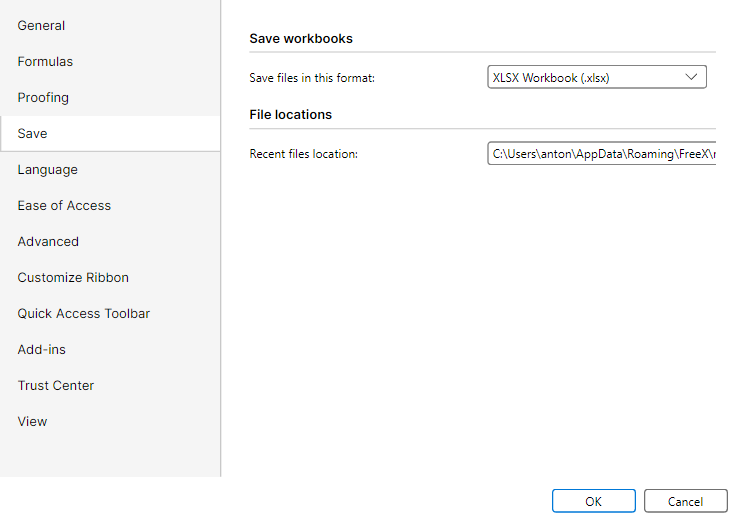
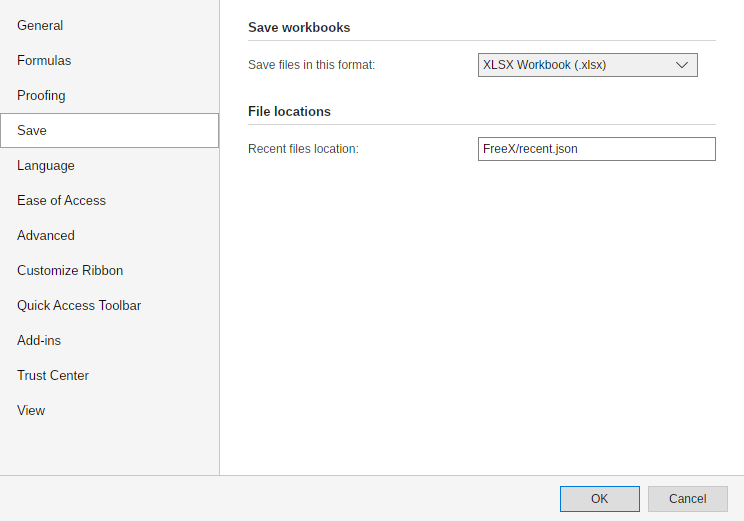
FreeX: align Avalonia Options Save parity

diff --git a/src/FreeX.App.Host/ParityCapture.cs b/src/FreeX.App.Host/ParityCapture.cs
@@ -581,9 +581,21 @@ internal static class ParityCapture
             {
                 CaptureConsolidateDialogDirect(results, outDir, sheet.Id, ResolveSheetId(workbook));
             }
+            else if (string.Equals(targetSurfaceId, "dialog.Options.Save", StringComparison.Ordinal))
+            {
+                CaptureDialogTabs(results, "dialog.Options", outDir,
+                    () => new OptionsDialog(FreeXOptions.Load()),
+                    ["General", "Formulas", "Proofing", "Save", "Language", "EaseOfAccess",
+                        "Advanced", "CustomizeRibbon", "QuickAccessToolbar", "AddIns", "TrustCenter", "View"],
+                    captureSizeResolver: surfaceId =>
+                        surfaceId.Equals("dialog.Options.Formulas", StringComparison.Ordinal)
+                            ? (OptionsDialogPlanner.CaptureWidth, OptionsDialogPlanner.FormulasCaptureHeight)
+                            : (OptionsDialogPlanner.CaptureWidth, OptionsDialogPlanner.CaptureHeight),
+                    captureOnlySurfaceId: targetSurfaceId);
+            }
             else
             {
-                AddMissing(results, targetSurfaceId, "dialog", "Targeted WPF parity capture only supports dialog.FormatCells, dialog.AccessibilityChecker, dialog.GoalSeek, dialog.GoToSpecial, dialog.Sparkline, dialog.ExportOptions, dialog.ProtectWorkbook, dialog.PivotTableOptions, dialog.PageSetup, dialog.HeaderFooterDialog, and dialog.Consolidate in this lane.");
+                AddMissing(results, targetSurfaceId, "dialog", "Targeted WPF parity capture only supports dialog.FormatCells, dialog.AccessibilityChecker, dialog.GoalSeek, dialog.GoToSpecial, dialog.Sparkline, dialog.ExportOptions, dialog.ProtectWorkbook, dialog.PivotTableOptions, dialog.PageSetup, dialog.HeaderFooterDialog, dialog.Consolidate, and dialog.Options.Save in this lane.");
             }
 
             return;
@@ -1427,7 +1439,8 @@ internal static class ParityCapture
         string outDir,
         Func<Window> factory,
         string[] tabNames,
-        Func<string, (double Width, double Height)>? captureSizeResolver = null)
+        Func<string, (double Width, double Height)>? captureSizeResolver = null,
+        string? captureOnlySurfaceId = null)
     {
         Window? dialog = null;
         try
@@ -1446,14 +1459,17 @@ internal static class ParityCapture
             var liveDialog = dialog;
 
             // Default surface (whatever tab the dialog opened on).
-            CaptureSurface(results, surfaceId, "dialog", outDir, () =>
+            if (captureOnlySurfaceId is null || captureOnlySurfaceId.Equals(surfaceId, StringComparison.Ordinal))
             {
-                var captureSize = captureSizeResolver?.Invoke(surfaceId);
-                ApplyDialogClientCaptureSize(liveDialog, captureSize);
-                return captureSize is { } size
-                    ? RenderDialog(liveDialog, size.Width, size.Height)
-                    : RenderDialog(liveDialog);
-            });
+                CaptureSurface(results, surfaceId, "dialog", outDir, () =>
+                {
+                    var captureSize = captureSizeResolver?.Invoke(surfaceId);
+                    ApplyDialogClientCaptureSize(liveDialog, captureSize);
+                    return captureSize is { } size
+                        ? RenderDialog(liveDialog, size.Width, size.Height)
+                        : RenderDialog(liveDialog);
+                });
+            }
 
             // The first TabControl drives most dialogs; the Options dialog instead switches its content via a
             // left-rail ListBox (TabList), so fall back to the first ListBox when no TabControl is present.
@@ -1463,6 +1479,9 @@ internal static class ParityCapture
             for (var i = 0; i < tabNames.Length; i++)
             {
                 var tabSurfaceId = $"{surfaceId}.{tabNames[i]}";
+                if (captureOnlySurfaceId is not null && !captureOnlySurfaceId.Equals(tabSurfaceId, StringComparison.Ordinal))
+                    continue;
+
                 var index = i;
                 CaptureSurface(results, tabSurfaceId, "dialog", outDir, () =>
                 {

diff --git a/src/FreeX.App.Avalonia/MainWindow.Options.cs b/src/FreeX.App.Avalonia/MainWindow.Options.cs
@@ -423,15 +423,32 @@ public sealed partial class MainWindow
         AutomationProperties.SetAutomationId(defaultFormatBox, "OptionsDefaultFormatComboBox");
 
         var savePanel = OptionsCategoryPanel(
-            OptionsSectionHeader(OptionsText("Options_SaveWorkbooks")),
-            OptionsLabeled(OptionsText("Options_SaveFilesInThisFormat"), defaultFormatBox),
-            OptionsSectionHeader(OptionsText("Options_FileLocations")),
+            OptionsSectionHeader(
+                OptionsText("Options_SaveWorkbooks"),
+                topMargin: 0,
+                bottomMargin: OptionsDialogPlanner.GeneralSectionBottomMargin),
+            OptionsLabeled(
+                OptionsText("Options_SaveFilesInThisFormat"),
+                defaultFormatBox,
+                labelWidth: OptionsDialogPlanner.GeneralLabelWidth,
+                fieldWidth: OptionsDialogPlanner.GeneralFontFieldWidth,
+                spacing: OptionsDialogPlanner.GeneralFieldSpacing,
+                margin: new Thickness(0, 0, 0, OptionsDialogPlanner.GeneralFieldBottomMargin)),
+            OptionsSectionHeader(
+                OptionsText("Options_FileLocations"),
+                topMargin: OptionsDialogPlanner.GeneralSectionTopMargin,
+                bottomMargin: OptionsDialogPlanner.GeneralSectionBottomMargin),
             OptionsLabeled(OptionsText("Options_RecentFilesLocation"), OptionsReadOnlyTextBox(
                 System.IO.Path.Combine(
                     Environment.GetFolderPath(Environment.SpecialFolder.ApplicationData),
                     "FreeX",
                     "recent.json"),
-                minWidth: 280), stretchField: true));
+                minWidth: 0),
+                labelWidth: OptionsDialogPlanner.GeneralLabelWidth,
+                stretchField: true,
+                margin: new Thickness(0, 0, 0, OptionsDialogPlanner.GeneralFieldBottomMargin)));
+
+        savePanel.Spacing = 0;
 
         var languagePanel = OptionsCategoryPanel(
             OptionsSectionHeader(OptionsText("Options_ChooseDisplayLanguage")),

diff --git a/tests/FreeX.App.Avalonia.Tests/OptionsDialogGeneralParitySourceTests.cs b/tests/FreeX.App.Avalonia.Tests/OptionsDialogGeneralParitySourceTests.cs
@@ -27,6 +27,26 @@ public sealed class OptionsDialogGeneralParitySourceTests
         wpf.Should().Contain("Height=\"24\"");
     }
 
+    [Fact]
+    public void SaveOptions_UsesWpfSectionGeometryAndStretching()
+    {
+        var source = File.ReadAllText(RepoFile("src", "FreeX.App.Avalonia", "MainWindow.Options.cs"));
+        var wpf = File.ReadAllText(RepoFile("src", "FreeX.App.Host", "OptionsDialog.xaml"));
+
+        source.Should().Contain("savePanel.Spacing = 0;");
+        source.Should().Contain("topMargin: 0,");
+        source.Should().Contain("fieldWidth: OptionsDialogPlanner.GeneralFontFieldWidth,");
+        source.Should().Contain("spacing: OptionsDialogPlanner.GeneralFieldSpacing,");
+        source.Should().Contain("topMargin: OptionsDialogPlanner.GeneralSectionTopMargin,");
+        source.Should().Contain("stretchField: true,");
+        source.Should().Contain("minWidth: 0");
+
+        wpf.Should().Contain("<ColumnDefinition Width=\"230\"/>");
+        wpf.Should().Contain("<ColumnDefinition Width=\"200\"/>");
+        wpf.Should().Contain("<ColumnDefinition Width=\"*\"/>");
+        wpf.Should().Contain("x:Name=\"OptRecentFilesPath\"");
+    }
+
     private static string RepoFile(params string[] parts)
     {
         var directory = new DirectoryInfo(AppContext.BaseDirectory);

diff --git a/tests/FreeX.App.Host.Tests/OptionsDialogSourceTests.cs b/tests/FreeX.App.Host.Tests/OptionsDialogSourceTests.cs
@@ -50,6 +50,17 @@ public sealed partial class OptionsDialogSourceTests
     }
 
     [Fact]
+    public void ParityCapture_TargetsOptionsSaveWithCurrentWpfClientFrame()
+    {
+        var source = DialogSourceTestSupport.ReadHostSources("ParityCapture.cs");
+
+        source.Should().Contain("string.Equals(targetSurfaceId, \"dialog.Options.Save\", StringComparison.Ordinal)");
+        source.Should().Contain("captureOnlySurfaceId: targetSurfaceId");
+        source.Should().Contain("captureSizeResolver: surfaceId =>");
+        source.Should().Contain("OptionsDialogPlanner.CaptureWidth, OptionsDialogPlanner.CaptureHeight");
+    }
+
+    [Fact]
     public void ParityCapture_OptionsAdvancedRendersActionFooterInsideCanonicalClientFrame()
     {
         StaTestRunner.Run(() =>

diff --git a/docs/parity/dialog-visual-evidence-summary.md b/docs/parity/dialog-visual-evidence-summary.md
@@ -62,7 +62,6 @@ Outliers are ranked by a deterministic triage score: normalized 32x32 ARGB sampl
 
 | Surface id | WPF logical size | Avalonia logical size | Raw PNG sizes | Bucket | Evidence flag | Score | Sample delta | Luma delta | Non-bg delta |
 | --- | ---: | ---: | --- | --- | --- | ---: | ---: | ---: | ---: |
-| dialog.Options.Save | 744x521 | 744x521 | 744x521 px @ 96 DPI vs 744x521 px @ 96 DPI |  |  | 0.105 | 0.019 | 0.006 | 0.080 |
 | dialog.Options.Language | 744x521 | 744x521 | 744x521 px @ 96 DPI vs 744x521 px @ 96 DPI |  |  | 0.104 | 0.019 | 0.004 | 0.080 |
 | dialog.ScenarioManager | 360x420 | 360x420 | 540x630 px @ 144 DPI vs 360x420 px @ 96 DPI |  |  | 0.104 | 0.053 | 0.006 | 0.044 |
 | dialog.ErrorChecking | 720x420 | 720x420 | 1080x630 px @ 144 DPI vs 720x420 px @ 96 DPI |  |  | 0.103 | 0.030 | 0.006 | 0.066 |
@@ -72,6 +71,7 @@ Outliers are ranked by a deterministic triage score: normalized 32x32 ARGB sampl
 | dialog.AccessibilityChecker | 360x520 | 360x520 | 360x520 px @ 96 DPI vs 360x520 px @ 96 DPI |  |  | 0.099 | 0.040 | 0.023 | 0.036 |
 | dialog.Options.View | 744x521 | 744x521 | 744x521 px @ 96 DPI vs 744x521 px @ 96 DPI |  |  | 0.099 | 0.016 | 0.006 | 0.076 |
 | dialog.Options.EaseOfAccess | 744x521 | 744x521 | 744x521 px @ 96 DPI vs 744x521 px @ 96 DPI |  |  | 0.098 | 0.015 | 0.008 | 0.075 |
+| dialog.Options.AddIns | 744x521 | 744x521 | 744x521 px @ 96 DPI vs 744x521 px @ 96 DPI |  |  | 0.097 | 0.015 | 0.006 | 0.076 |
 
 ## Scale-Aware Dimension Mismatch Details
 
@@ -138,7 +138,7 @@ These rows have a DPI-normalized checked-in PNG size that disagrees with the dia
 | dialog.Options.Language | dialog.Options.Language.png | 744x521 | 744x521 px @ 96 DPI | True | dialog.Options.Language.png | 744x521 | 744x521 px @ 96 DPI | True | True | 0.104 |
 | dialog.Options.Proofing | dialog.Options.Proofing.png | 744.301x521 | 744x521 px @ 96 DPI | True | dialog.Options.Proofing.png | 744x521 | 744x521 px @ 96 DPI | True | True | 0.042 |
 | dialog.Options.QuickAccessToolbar | dialog.Options.QuickAccessToolbar.png | 744.301x521 | 744x521 px @ 96 DPI | True | dialog.Options.QuickAccessToolbar.png | 744x521 | 744x521 px @ 96 DPI | True | True | 0.047 |
-| dialog.Options.Save | dialog.Options.Save.png | 744x521 | 744x521 px @ 96 DPI | True | dialog.Options.Save.png | 744x521 | 744x521 px @ 96 DPI | True | True | 0.105 |
+| dialog.Options.Save | dialog.Options.Save.png | 744x521 | 744x521 px @ 96 DPI | True | dialog.Options.Save.png | 744x521 | 744x521 px @ 96 DPI | True | True | 0.022 |
 | dialog.Options.TrustCenter | dialog.Options.TrustCenter.png | 744x521 | 744x521 px @ 96 DPI | True | dialog.Options.TrustCenter.png | 744x521 | 744x521 px @ 96 DPI | True | True | 0.101 |
 | dialog.Options.View | dialog.Options.View.png | 744x521 | 744x521 px @ 96 DPI | True | dialog.Options.View.png | 744x521 | 744x521 px @ 96 DPI | True | True | 0.099 |
 | dialog.PageSetup | dialog.PageSetup.png | 600x560 | 600x560 px @ 96 DPI | True | dialog.PageSetup.png | 600x560 | 600x560 px @ 96 DPI | True | True | 0.091 |

diff --git a/docs/parity/freex-options-save-wave26-20260727.md b/docs/parity/freex-options-save-wave26-20260727.md
@@ -1,0 +1,33 @@
+# FreeX Options Save Wave 26
+
+Date: 2026-07-27
+
+## Scope
+
+Aligned the Avalonia `dialog.Options.Save` page with the current WPF `OptionsDialog`:
+
+- WPF-matched section margins and zero panel row spacing.
+- Shared Options planner widths for the 230 px label column and 200 px format field.
+- Stretching recent-files location into the available `*` column instead of clipping a 280 px minimum field.
+- Shared Avalonia compact dialog chrome remains the control styling source.
+- Added a focused WPF parity-capture selector for `dialog.Options.Save`.
+
+## Evidence
+
+Both captures came from the current branch at the canonical 744x521 client frame:
+
+- WPF: `FreeX.App.Host --parity-capture ... --parity-capture-target dialog.Options.Save`
+- Avalonia: self-contained `linux-x64` publish, Ubuntu 24.04 Docker, direct Xvfb `:99`, `--parity-capture-surface dialog.Options.Save`
+
+The paired PNGs and manifests are promoted under `docs/parity/dialog-visual-assets/` with fresh-source provenance.
+
+| Metric | Before | After | Change |
+| --- | ---: | ---: | ---: |
+| `dialog.Options.Save` triage score | 0.105011 | 0.021855 | -79.2% |
+| Logical dimensions | 744x521 | 744x521 | matched |
+| Nonblank evidence | yes | yes | preserved |
+
+## Residuals
+
+The recent-files path text is platform-specific (`C:\Users\...` in WPF versus the Linux profile path in Avalonia), and toolkit text/control rasterization remains. WPF reports a 95.9866 DPI capture versus Avalonia's 96 DPI; the logical frame remains within the established tolerance.
+
